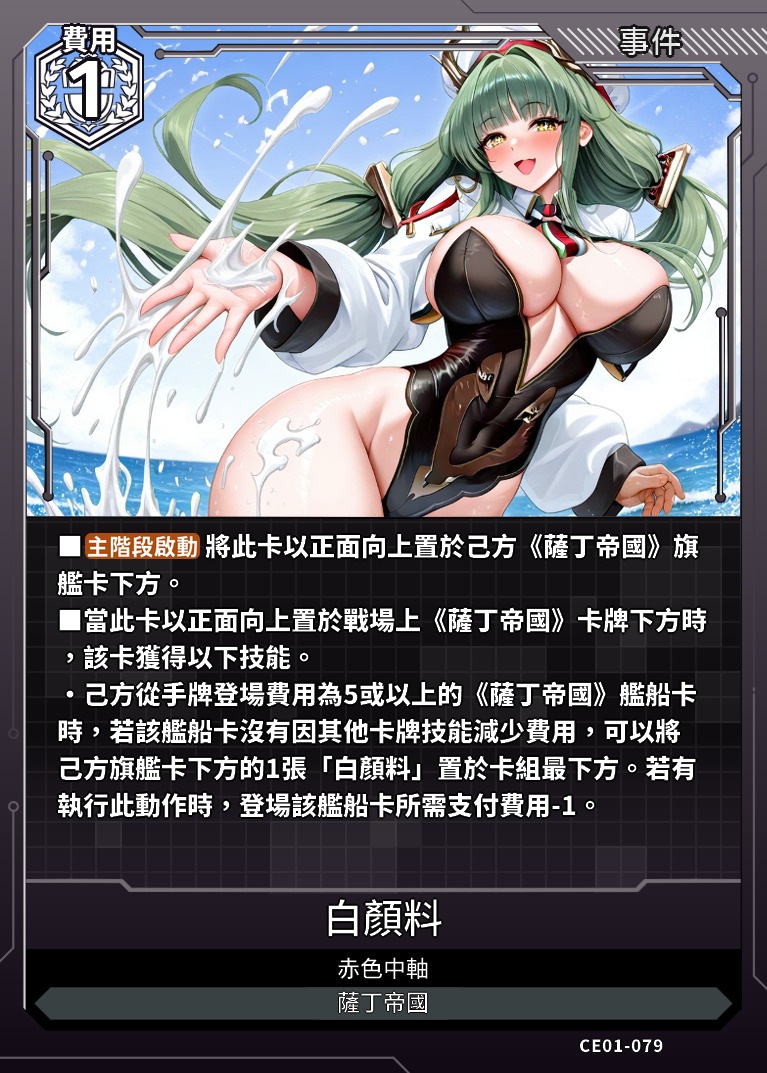
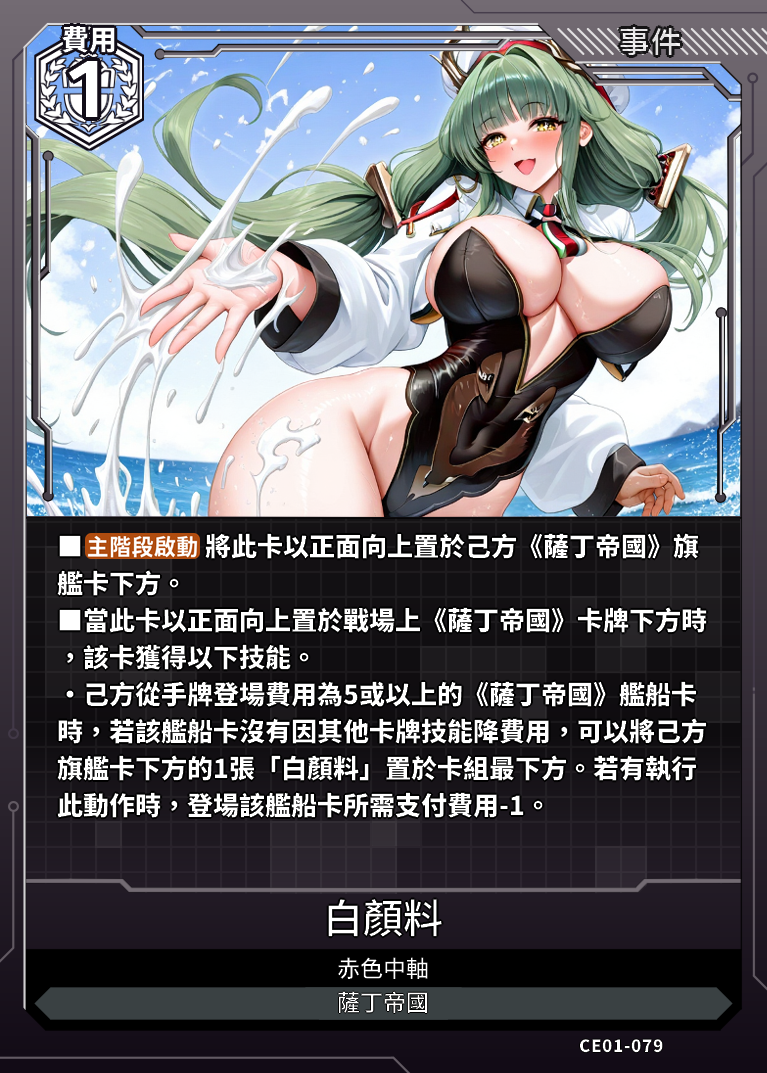
更新上位

Changed region(s): [[0.06, 0.6459, 0.9296, 0.7689]]

diff --git a/data.js b/data.js
@@ -23424,7 +23424,7 @@ const cards = [
             "支援範圍": "-",
             "支援值": "-"
         },
-        "card_effect": "■【主階段啟動】將此卡以正面向上置於己方《薩丁帝國》旗艦卡下方。■當此卡以正面向上置於戰場上《薩丁帝國》卡牌下方時，該卡獲得以下技能。・己方從手牌登場費用為5或以上的《薩丁帝國》艦船卡時，若該艦船卡沒有因卡牌技能減少費用，可以將己方旗艦卡下方的1張「白顏料」置於卡組最下方。若有執行此動作時，登場該艦船卡所需支付費用-1。",
+        "card_effect": "■【主階段啟動】將此卡以正面向上置於己方《薩丁帝國》旗艦卡下方。■當此卡以正面向上置於戰場上《薩丁帝國》卡牌下方時，該卡獲得以下技能。・己方從手牌登場費用為5或以上的《薩丁帝國》艦船卡時，若該艦船卡沒有因卡牌技能降費用，可以將己方旗艦卡下方的1張「白顏料」置於卡組最下方。若有執行此動作時，登場該艦船卡所需支付費用-1。",
         "acquisition_method": "CE01"
     },
     {

diff --git a/topdeck.js b/topdeck.js
@@ -1,6 +1,15 @@
 // topdeck.js
 const topDecks = [
   {
+    "deck_id": "20260121-1",
+    "L_name": "讓·巴爾",
+    "Format": "7.5.1",
+    "Description": "20260121 玩具e哥花蓮和平店 碧藍戰卡CE週賽 6人(7.5.1) 冠軍 讓.巴爾 ひろし",
+    "Level": "常規賽",
+    "Players": 6,
+    "Champion": 1
+  },
+  {
     "deck_id": "20260118-1",
     "L_name": "信濃",
     "Format": "7.5.1",
